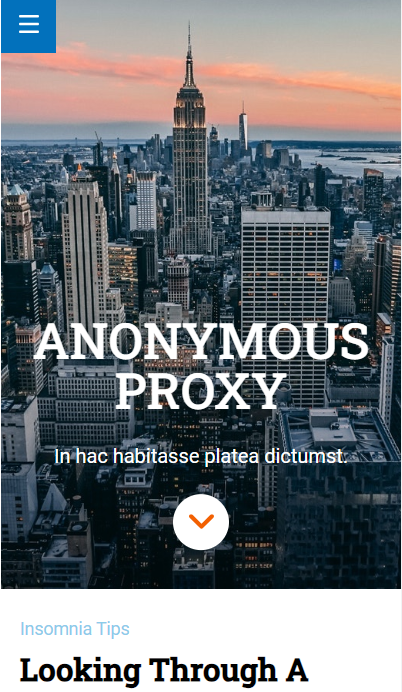
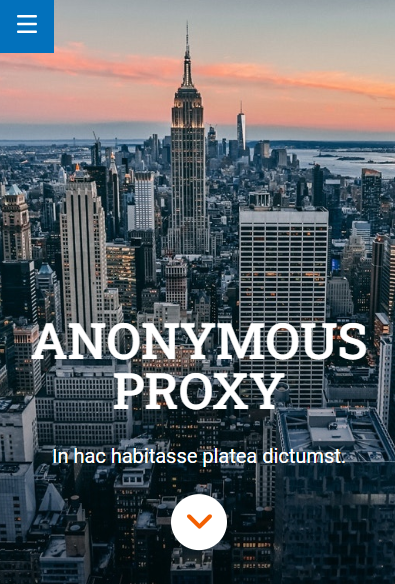
change routes name, order, start with tablet measures

diff --git a/src/components/Projects.js b/src/components/Projects.js
@@ -1,0 +1,54 @@
+import '../styles/Projects.scss';
+import '../styles/Variables.scss';
+import anonymous from '../images/2.png';
+import cleopatra from '../images/3.png';
+import restaurant from '../images/1.png';
+const Projects = () => {
+  const projects = [
+    {
+      id: 1,
+      image: anonymous,
+      title: 'Anonymous Proxy',
+      desc: 'lorem impsum',
+      github:
+        'https://github.com/IreneTaPa/modulo-1-evaluacion-final-IreneTaPa',
+      web: 'https://irenetapa.github.io/modulo-1-evaluacion-final-IreneTaPa/',
+    },
+    {
+      id: 2,
+      image: cleopatra,
+      title: 'Cleopatras Digital Empire',
+      desc: 'hflfjs',
+      github: 'dre',
+      web: 'resgts',
+    },
+    {
+      id: 3,
+      image: restaurant,
+      title: 'Restaurant',
+      desc: 'hflfjs',
+      github: 'dre',
+      web: 'resgts',
+    },
+  ];
+
+  return (
+    <div className="body_porfolio">
+      <h1 className="portfolio_title">PROJECTS</h1>
+
+      <ul className="projects_list">
+        {projects.map((project) => (
+          <li key={project.id}>
+            <img
+              src={project.image}
+              className="project_image"
+              alt={project.desc}
+            ></img>
+          </li>
+        ))}
+      </ul>
+    </div>
+  );
+};
+
+export default Projects;

diff --git a/src/components/Header.js b/src/components/Header.js
@@ -5,7 +5,7 @@ import { Link } from 'react-router-dom';
 const Header = () => {
   return (
     <div className="header">
-      <div className="hero_image"></div>
+      <div className="header_image"></div>
       <div className="header_div">
         <p className="name">Irene Talavero</p>
         <p className="profession">Front-End Developer</p>
@@ -13,12 +13,12 @@ const Header = () => {
           <ul className="list">
             <li>
               <Link className="link" to="/">
-                Portfolio
+                About
               </Link>
             </li>
             <li>
-              <Link className="link" to="/about">
-                About
+              <Link className="link" to="/projects">
+                Projects
               </Link>
             </li>
             <li>

diff --git a/src/components/App.js b/src/components/App.js
@@ -3,7 +3,7 @@ import '../styles/App.scss';
 import '../styles/Variables.scss';
 import { Routes, Route } from 'react-router-dom';
 import Header from './Header';
-import Portfolio from './Portfolio';
+import Projects from './Projects';
 import About from './About';
 import Footer from './Footer';
 import Contact from './Contact';
@@ -12,8 +12,8 @@ const App = () => {
     <div>
       <Header></Header>
       <Routes>
-        <Route path="/" element={<Portfolio />} />
-        <Route path="/about" element={<About />} />
+        <Route path="/" element={<About />} />
+        <Route path="/projects" element={<Projects />} />
         <Route path="/contact" element={<Contact />} />
       </Routes>
       <Footer />

diff --git a/src/styles/Header.scss b/src/styles/Header.scss
@@ -4,7 +4,7 @@
     height: 20vh; 
    
 }
-.hero_image {
+.header_image {
     background-image: url(../images/hero.png);
     height: 20vh;
     width: 320px;
@@ -12,6 +12,7 @@
     position: absolute; 
     z-index: -1; 
 }
+
 .header_div {
     width: 320px;
     position: relative; 
@@ -23,6 +24,7 @@
     align-items: center;
     justify-content: space-around;
 }
+
 .list {
     display: flex;
     padding-top: 5px;
@@ -55,5 +57,15 @@
   padding-bottom: 5px;
 }
 
+@media (min-width:321px) and (max-width: 768px) {
+    .header_image {
+            width: 768px;
+        }
+    .header_div {
+        width: 730px; 
+        align-content: flex-end;
+    }
+
+}
 
 

diff --git a/src/styles/About.scss b/src/styles/About.scss
@@ -3,13 +3,6 @@
    background-color: $color-1;
 }
 
-.about_title {
-   text-align: center;
-      padding-top: 20px;
-      font-family: $font-1;
-   color: $color-2;  
-   
-}
 .author_img {
    height: 100px;
    padding: 10px;
@@ -18,6 +11,7 @@
 .div_letter {
    display: flex;
    flex-direction: row;
+   padding-top: 15px;
    padding-right: 20px;
    font-family: $font-1;
    font-size: 15px;
@@ -49,7 +43,12 @@
    background-color: $color-4;
    color: $color-3;
 }
-
+.technologies_title {
+   text-align: center;
+   padding: 20px 20px 10px 20px;
+   font-family: $font-1;
+   color: $color-2;
+}
 .technologies_list {
    padding: 10px;
    display: flex;

diff --git a/src/components/About.js b/src/components/About.js
@@ -8,7 +8,6 @@ import { faDownload } from '@fortawesome/free-solid-svg-icons';
 const About = () => {
   return (
     <div className="body_about">
-      <h1 className="about_title">ABOUT</h1>
       <div className="div_letter">
         <img src={img} alt="Author" className="author_img" />
         <div className="letter">
@@ -27,7 +26,7 @@ const About = () => {
         <FontAwesomeIcon icon={faDownload} className="download_button--icon" />
         <p>Download CV</p>
       </a>
-      <h1>TECHNOLOGIES</h1>
+      <h1 className="technologies_title">TECHNOLOGIES</h1>
       <ul className="technologies_list">{<TechnologiesDetail />}</ul>
     </div>
   );

diff --git a/src/styles/Projects.scss b/src/styles/Projects.scss
@@ -1,0 +1,32 @@
+@import './Variables.scss'; 
+.body_porfolio {
+    background-color:$color-1; 
+    
+}
+
+.portfolio_title {
+    text-align: center;
+    padding-top: 20px;
+    font-family: $font-1;
+    color: $color-2;
+}
+.projects_list {
+    display: flex; 
+    flex-direction: row;
+    flex-wrap: wrap;
+    justify-content: space-around;
+  
+}
+.project_image {
+    width: 150px; 
+    height: 250px;
+    -webkit-filter: grayscale(100%);
+    filter: grayscale(100%);
+    
+}
+
+.project_image:hover {
+    cursor: pointer; 
+    -webkit-filter:none;
+    filter: none;
+}
